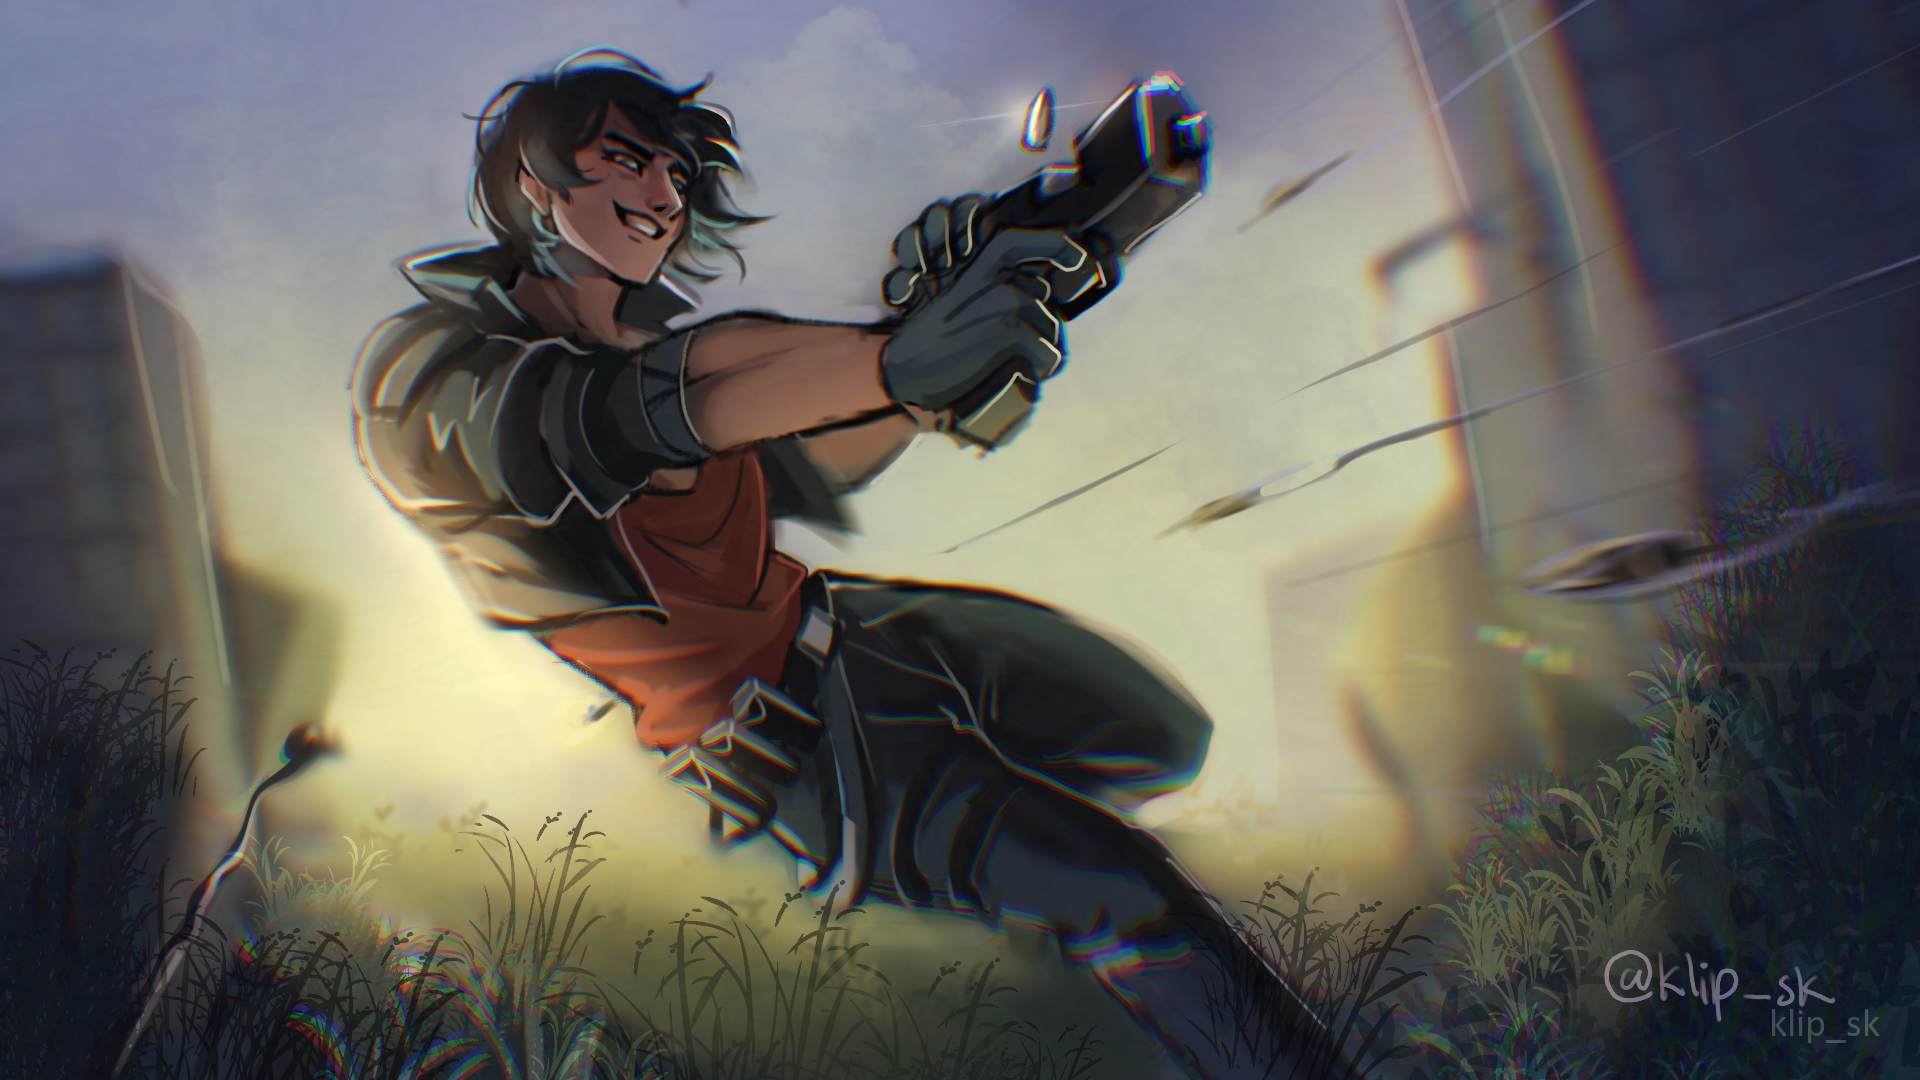
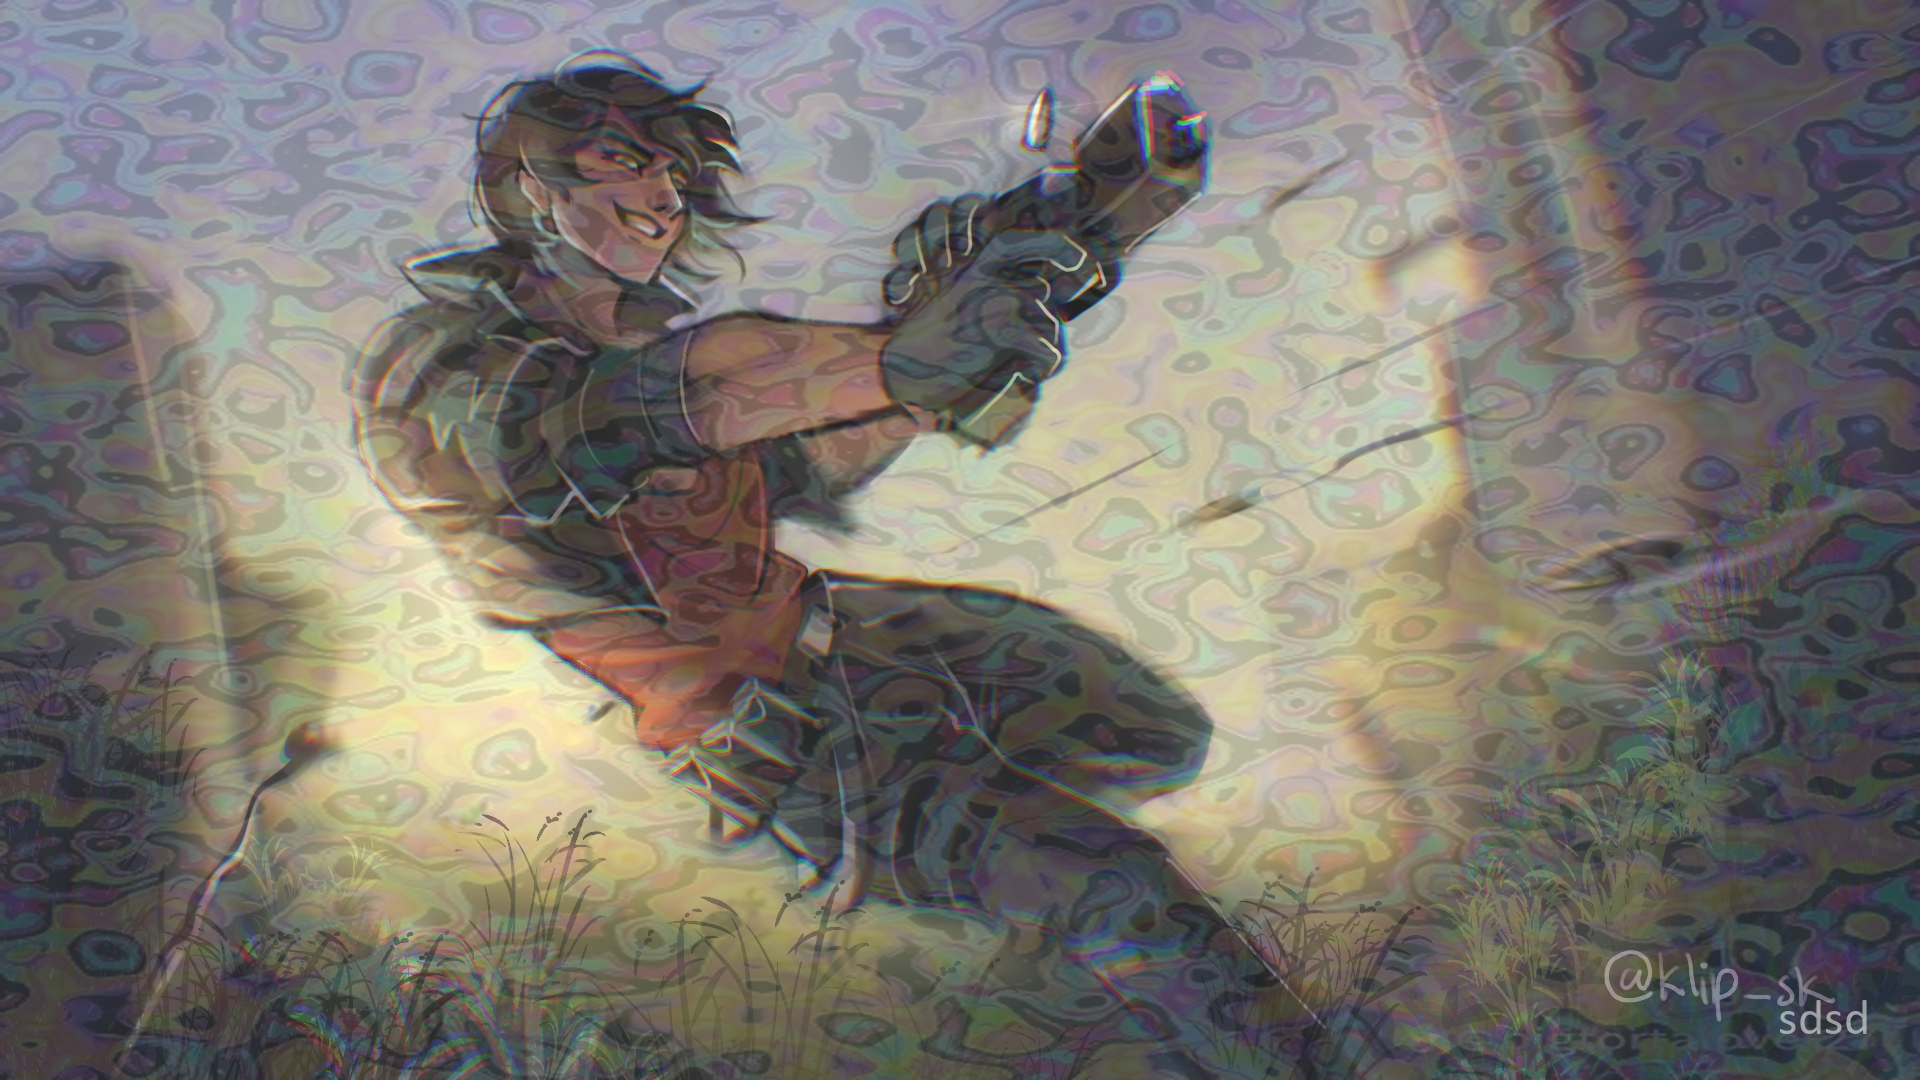
before cleaning up database prefences

diff --git a/website/templates/home.html b/website/templates/home.html
@@ -41,13 +41,7 @@
       "
     >
       <div style="text-align: left; width: 50%">
-        {% if output_image_url %}
-        <h3>Processed Image</h3>
-        <img
-          src="{{url_for('static', filename='downloads/output.png')}}"
-          width="500"
-        />
-        {% else %}
+
         <div class="form-group">
           <label for="input_file">Upload an Image:</label>
           <input
@@ -58,7 +52,15 @@
             accept="image/*"
           />
         </div>
+        {% if output_image_url %}
+        <img
+        src="{{ url_for('static', filename='downloads/output.png') }}"
+        width="500"
+        />
+        <a href="..\static\downloads\output.png" class="btn btn-primary" style="margin-top: 20px;" download="output.png">Download Image</a>
+
         {% endif %}
+        
       </div>
 
       <div style="text-align: right; width: 50%">
@@ -77,7 +79,7 @@
                 id="ai-opacity"
                 min="0.000"
                 max="0.500"
-                value="0.000"
+                value="{{ user.preference.overlay_opacity }}"
                 required
               />
               <span class="opacity-value">0.0%</span>
@@ -93,12 +95,13 @@
             <div class="form-group">
               <label for="watermark-label">Watermark Label:</label>
               <input
-                type="text"
-                class="form-control"
-                name="watermark-label"
-                id="watermark-label"
-                placeholder="Enter watermark text"
-              />
+              type="text"
+              class="form-control"
+              name="watermark-label"
+              id="watermark-label"
+              placeholder="{{ user.preference.watermark_label }}"
+              value="{{ user.preference.watermark_label }}"
+            />
             </div>
             <!-- Font size dropdown -->
             <div class="form-group">
@@ -111,7 +114,7 @@
               </select>
             </div>
 
-            <input type="hidden" id="watermark-font" name="watermark-font" value="30">
+            <input type="hidden" id="watermark-font" name="watermark-font" value="{{ user.preference.font_size }}">
             
             <!-- Opacity slider -->
             <div class="form-group">
@@ -124,17 +127,16 @@
                 id="watermark-opacity"
                 min="0.000"
                 max="1.00"
-                value="0.000"
+                value="{{ user.preference.watermark_opacity }}"
                 required
               />
               <span class="opacity-value">0.0%</span>
               <!-- Display current opacity and hold default opacity -->
             </div>
-        
           </div>
-          
-
-        <button type="submit" class="btn btn-primary" style="margin-top: 20px;" >Add Overlay</button>
+    
+          <button type="submit" name="action" value="apply" class="btn btn-primary" style="margin-top: 20px;">Apply</button>
+          <button type="submit" name="action" value="save_preferences" class="btn btn-primary" style="margin-top: 20px;">Save Preferences</button>          
       </div>
     </div>
   </form>

diff --git a/website/views.py b/website/views.py
@@ -5,7 +5,7 @@ import subprocess
 import os
 
 from . import db
-from .models import User, Note
+from .models import User, Preferences
 from .automation_script import overlay  # Import the function
 
 views = Blueprint('views', __name__)
@@ -31,18 +31,48 @@ def home():
     output_image_url = session.pop('output_image_url', None)  # Retrieve and remove the URL from the session
 
     if request.method == 'POST': 
-        if 'note' in request.form:
-            note = request.form.get('note')#Gets the note from the HTML 
+        # if 'note' in request.form:
+        #     note = request.form.get('note')#Gets the note from the HTML 
 
-            if len(note) < 1:#if note is too short, flash error
-                flash('Note is too short!', category='error') 
-            else:
-                new_note = Note(data=note, user_id=current_user.id)  #providing the scheme for the note 
-                db.session.add(new_note) #adding and committing the note to the database. just like how user was in auth.py
-                db.session.commit()
-                flash('Note added!', category='success')
+        #     if len(note) < 1:#if note is too short, flash error
+        #         flash('Note is too short!', category='error') 
+        #     else:
+        #         new_note = Note(data=note, user_id=current_user.id)  #providing the scheme for the note 
+        #         db.session.add(new_note) #adding and committing the note to the database. just like how user was in auth.py
+        #         db.session.commit()
+        #         flash('Note added!', category='success')
+        # # handles the inputted image and the opacity post request from the viewer
+            # Ensure user has preferences
+        if not current_user.preference:
+            # Initialize default preferences for user if not present
+            new_preference = Preferences(
+                overlay_opacity="0.000",
+                watermark_opacity="0.000",
+                watermark_label="Enter Text",
+                font_size="30",
+                user_id=current_user.id
+            )
+            db.session.add(new_preference)
+            db.session.commit()
+            print(f"\n\n\n{current_user.preference}\n\n\n")
+        if request.form['action'] == 'save_preferences':
+            # note = request.form.get('note')#Gets the note from the HTML
+            new_preference = Preferences(
+                overlay_opacity = request.form.get('ai-opacity'), 
+                watermark_opacity = request.form.get('watermark-opacity'), 
+                watermark_label = request.form.get('watermark-label'), 
+                font_size = request.form.get('watermark-font'), 
+                user_id=current_user.id
+            )
+            # print(f"\n\n\n{get_overlay_opacity, get_watermark_opacity, get_watermark_label, get_font_size}\n\n\n")
+
+            db.session.add(new_preference)
+            db.session.commit()
+            flash('Preference updated!', category='success')
+            print(f"\n\n\n{current_user.preference}\n\n\n")
+
         # handles the inputted image and the opacity post request from the viewer
-        elif 'input_file' in request.files:
+        elif (request.form['action'] == 'apply'): #and ('input_file' in request.files)
             # print("Input file received")  # Debug statement
             file = request.files['input_file']
             
@@ -68,7 +98,6 @@ def home():
                 font_size = request.form.get('watermark-font')
                 overlay.add_watermark(output_path, output_path, watermark_label, watermark_opacity, font_size)
                 # print(f"\n\n\n{watermark_opacity, watermark_label}\n\n\n")
-                # watermark_font_size = request.form.get('font-size')
 
                 # Process the input URL or the uploaded file with the specified opacity
                 
@@ -77,21 +106,22 @@ def home():
                 output_image_url = url_for('views.download_file', filename='output.png')
                 # print(f"Generated URL: {output_image_url}")  # Debug statement
                 session['output_image_url'] = output_image_url  # Store the URL in the session
+                os.remove(file_path)
                 return redirect(url_for('views.home'))
 
     # print(f"\n\n\nRendering with URL: {output_image_url}\n\n\n")  # Debug statement
     return render_template('home.html', user=current_user, output_image_url=output_image_url)
 
-@views.route('/delete-note', methods=['POST'])
-def delete_note():  
-    note = json.loads(request.data) # this function expects a JSON from the INDEX.js file 
-    noteId = note['noteId']
-    note = Note.query.get(noteId)
-    if note:
-        if note.user_id == current_user.id:
-            db.session.delete(note)
-            db.session.commit()
-    return jsonify({})
+# @views.route('/delete-note', methods=['POST'])
+# def delete_note():  
+#     note = json.loads(request.data) # this function expects a JSON from the INDEX.js file 
+#     noteId = note['noteId']
+#     note = Note.query.get(noteId)
+#     if note:
+#         if note.user_id == current_user.id:
+#             db.session.delete(note)
+#             db.session.commit()
+#     return jsonify({})
 
 @views.route('/run-script', methods=['POST'])
 def run_script():

diff --git a/website/models.py b/website/models.py
@@ -3,12 +3,20 @@ from . import db #import db from __innit__.py from current folder
 from flask_login import UserMixin #helps log users in
 from sqlalchemy.sql import func
 
-class Note(db.Model):
+# class Note(db.Model):
     
-    id = db.Column(db.Integer, primary_key=True) #id is unique primary key to identify this note
-    data = db.Column(db.String(10000))
-    date = db.Column(db.DateTime(timezone=True), default=func.now()) #func automatically adds current date and time
-    user_id = db.Column(db.Integer, db.ForeignKey('user.id')) #links user id with note id 
+#     id = db.Column(db.Integer, primary_key=True) #id is unique primary key to identify this note
+#     data = db.Column(db.String(10000))
+#     date = db.Column(db.DateTime(timezone=True), default=func.now()) #func automatically adds current date and time
+#     user_id = db.Column(db.Integer, db.ForeignKey('user.id')) #links user id with note id 
+
+class Preferences(db.Model):
+    id = db.Column(db.Integer, primary_key=True)
+    overlay_opacity = db.Column(db.String(50), default="0.000")  # Set default values here
+    watermark_opacity = db.Column(db.String(50), default="0.000")
+    watermark_label = db.Column(db.String(50), default="Enter Text")
+    font_size = db.Column(db.String(50), default="30")
+    user_id = db.Column(db.Integer, db.ForeignKey('user.id'), nullable=False)
 
 class User(db.Model, UserMixin): #only use UserMixin for users
     #define columns of user object (fields)
@@ -16,4 +24,4 @@ class User(db.Model, UserMixin): #only use UserMixin for users
     email = db.Column(db.String(150), unique=True)
     password = db.Column(db.String(150))
     first_name = db.Column(db.String(150))
-    notes = db.relationship('Note') #basically store all users past notes into a 'list'
+    preference = db.relationship('Preferences', uselist=False) #basically store all users past notes into a 'list'

diff --git a/website/automation_script/overlay.py b/website/automation_script/overlay.py
@@ -11,7 +11,7 @@ def timeit(func):
         return result  # Return the result of the function
     return wrapper
 
-@timeit
+# @timeit
 def add_AI_disturbance_overlay(input_path, output_path, opacity):
     """
     This function overlays an AI disturbance image on top of your original image
@@ -59,7 +59,7 @@ def add_AI_disturbance_overlay(input_path, output_path, opacity):
     except Exception as e:
         print(f"An error occurred: {e}")
 
-@timeit
+# @timeit
 def add_watermark(input_path, output_path, watermark_text, opacity, size):
     try:
         # Ensure opacity is a float

diff --git a/website/__init__.py b/website/__init__.py
@@ -3,6 +3,7 @@ from flask_sqlalchemy import SQLAlchemy
 from os import path
 from flask_login import LoginManager
 
+
 db = SQLAlchemy() # object used to manipulate database
 DB_NAME = "database.db"
 
@@ -15,12 +16,12 @@ def create_app():
 
     from .views import views
     from .auth import auth
+    from .models import User, Preferences
 
     # url_prefix is starting character of each route ('/' is default)
     app.register_blueprint(views, url_prefix='/') 
     app.register_blueprint(auth, url_prefix='/')
     
-    from .models import User, Note
     
     create_database(app)
 
